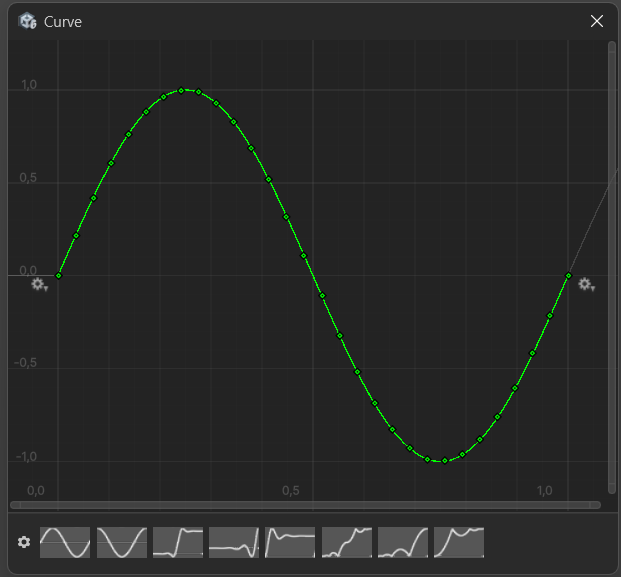
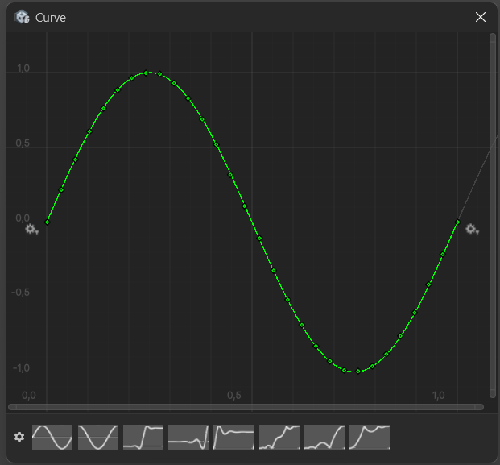
Update docs

diff --git a/README.md b/README.md
@@ -6,17 +6,25 @@
 
 ## Summary
 
-Components to animate GameOjects in runtime.
+Components to animate GameOjects at runtime.
+
+In the Inspector, click on the Add Component button > Animation and select the category to animate.
 
 ## How To Use
 
 ### Using Ease Animation Curves
 
+You can use Sine, Cosine, Elastic and Bounce (In, Out or InOut) ease Animation curves. First, you need to add those curves into your project.
+
 Find your Presets folder location by going into any AnimationCurve Window and doing the following:
 
 ![FindingPresetsFolder](/Docs~/FindingPresetsFolder.png)
 
-Put the [Ease file](/Docs~/Ease.curves) inside this Presets folder. You gonna see a collection of Ease Animation curves:
+Put the [Ease file](/Docs~/Ease.curves) inside this Presets folder. Back to Unity, select the Ease Presets:
+
+![FindingPresetsFolder](/Docs~/SelecEaseAnimationCurves.png)
+
+You gonna see a collection of Ease Animation curves:
 
 ![FindingPresetsFolder](/Docs~/EaseAnimationcurves.png)
 